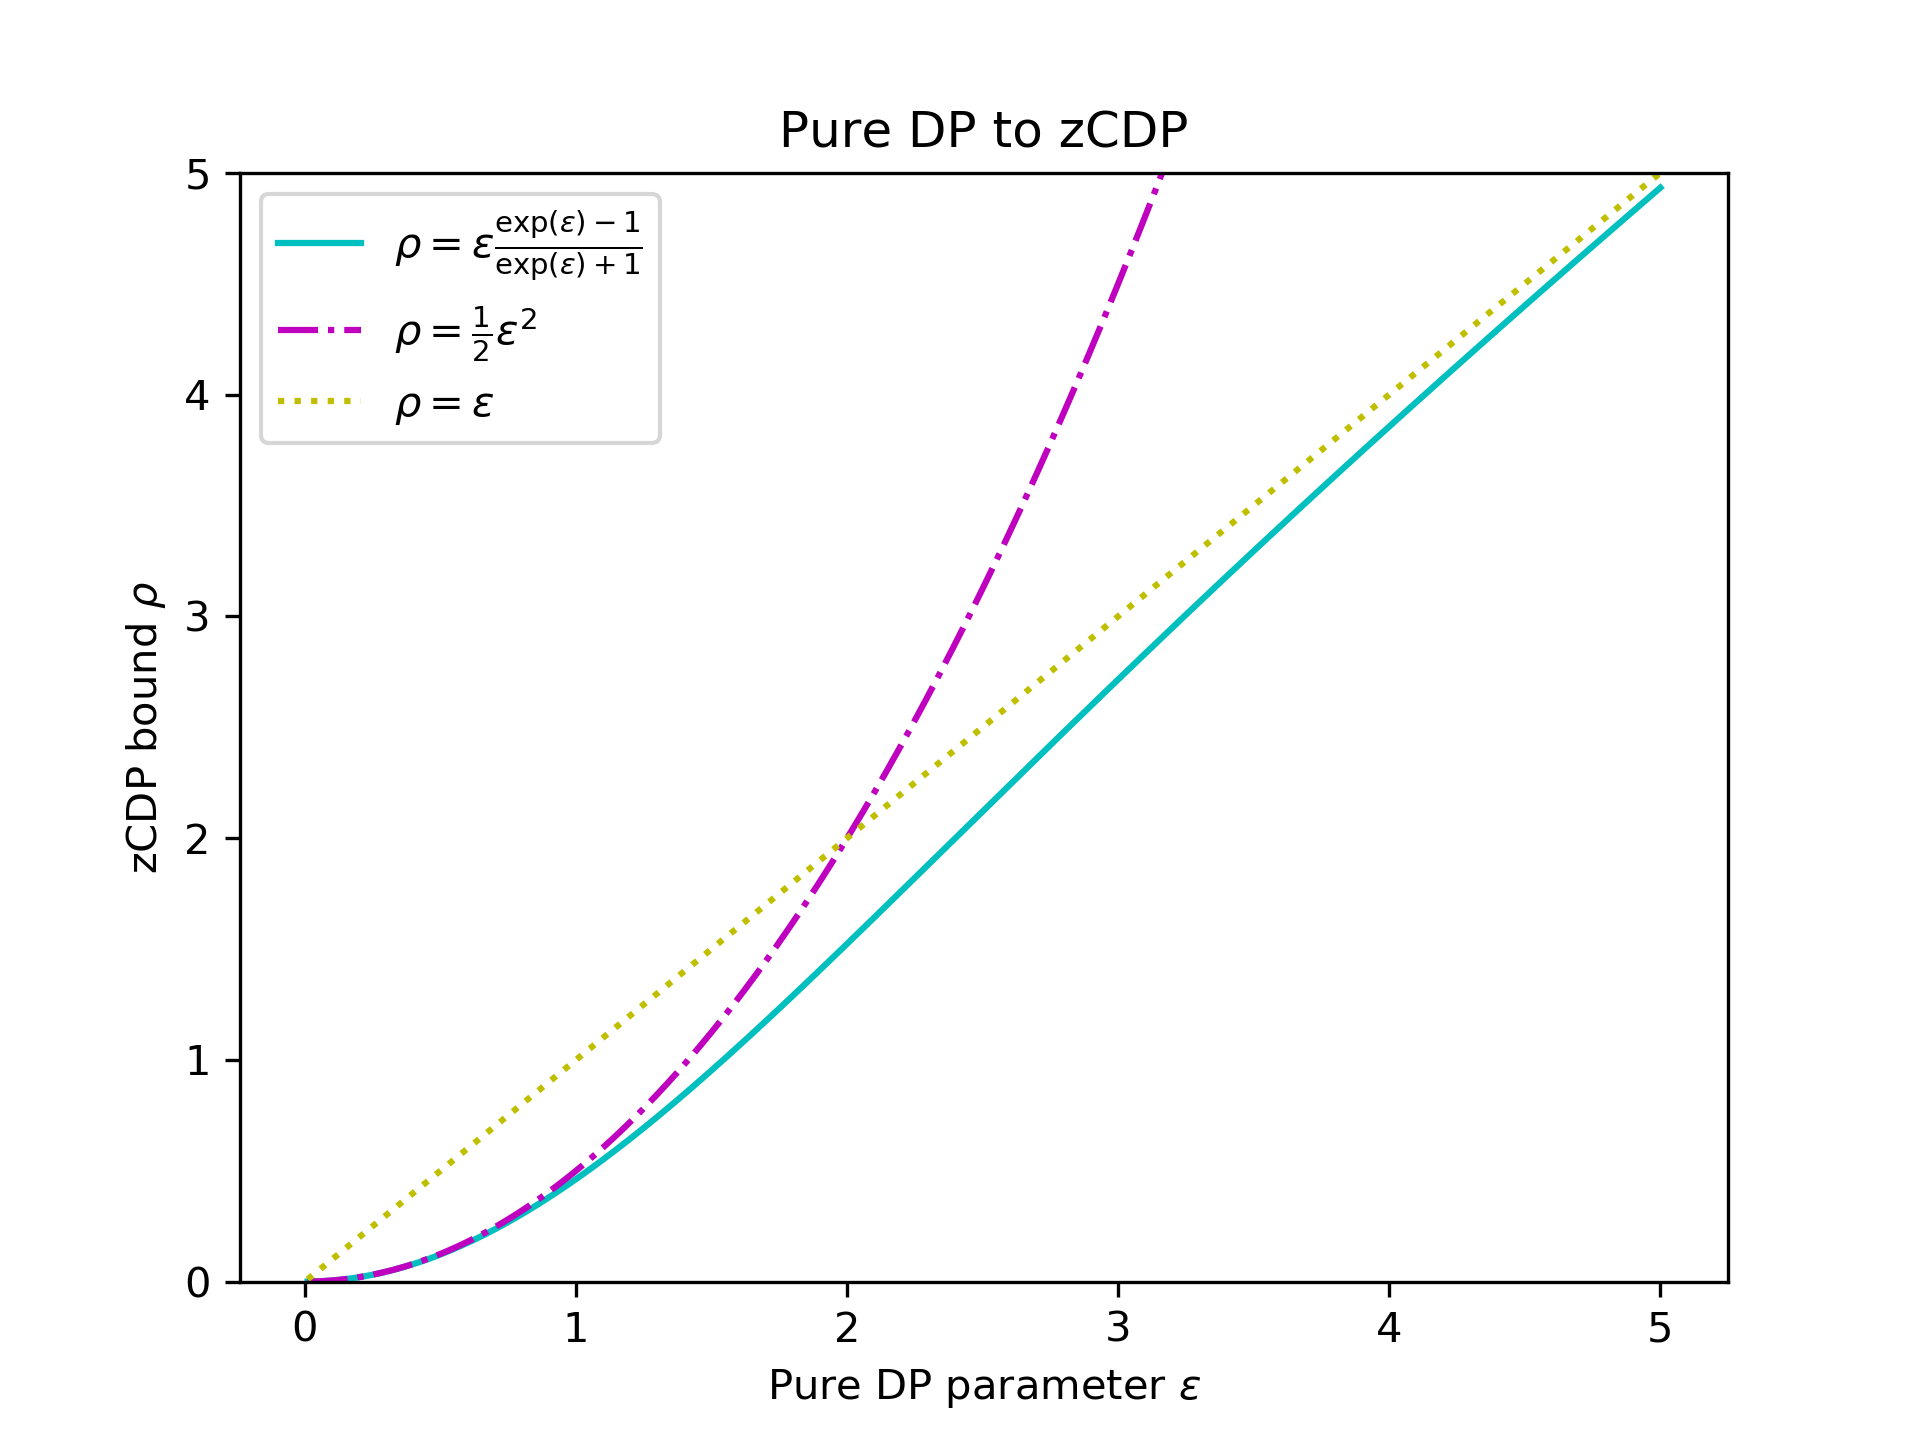
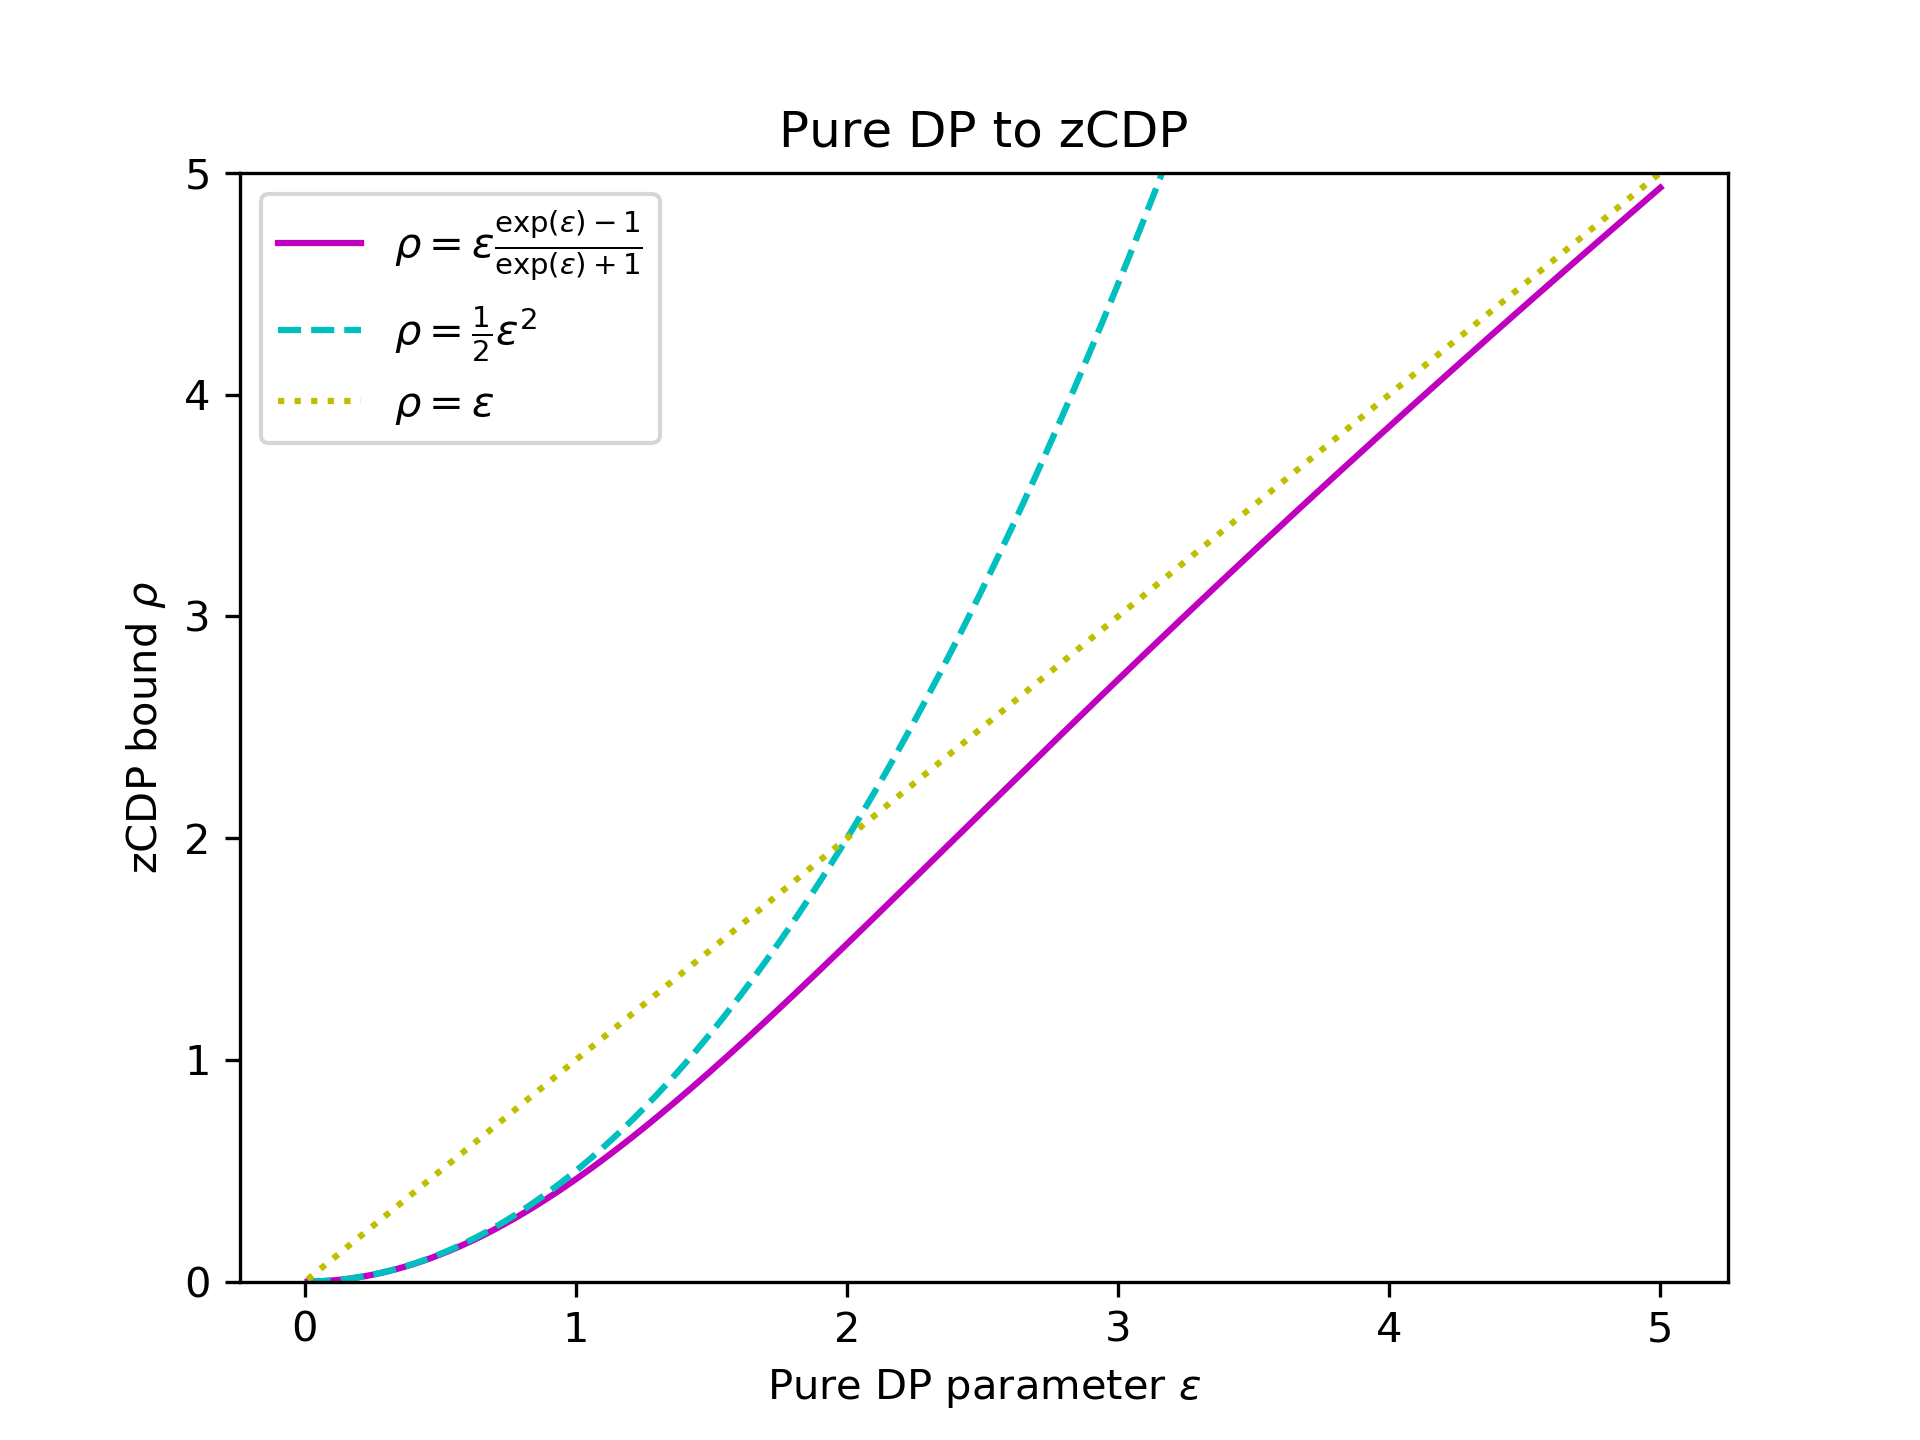
incomplete post

diff --git a/_posts/2024-05-27-pdp-to-zcdp.md b/_posts/2024-05-27-pdp-to-zcdp.md
@@ -1,6 +1,6 @@
 ---
 layout: post
-title: "Sharp RDP & zCDP from Pure DP"
+title: "Tight RDP & zCDP Bounds from Pure DP"
 comments: true
 authors:
   - thomassteinke
@@ -75,6 +75,7 @@ The equivalence of the two expressions in the theorem statement is a matter of a
 ## Converting Pure DP to zCDP
 
 The RDP bound in Theorem 4 is tight, but a bit unwieldy. Now we look at zCDP bounds, which are looser but simpler.
+The trivial bound gives that \\\(\\varepsilon\\\)-DP implies \\\(\\varepsilon\\\)-zCDP.
 In [a previous post](/exponential-mechanism-bounded-range) we proved that \\\(\\varepsilon\\\)-DP implies \\\(\\frac12\\varepsilon^2\\\)-zCDP.[^4]
 Now we prove a tight bound:
 
@@ -104,12 +105,20 @@ Tightness is witnessed by randomized response and by taking the limit \\\(\\alph
 
 ## Numerical Comparison
 
-Let's see what these improved bounds look like
+Let's see what these improved bounds look like:
 
-<img src="/images/pdp2zcdp-purerenyi.png" width="600" alt="Plot showing the bound from Theorem 4 compared to the trivial bound and the bound implied by Theorem 5 for epsilon=0.5,1,2." style="margin:auto;display: block;" />
+<img src="/images/pdp2zcdp-purerenyi.png" width="700" alt="Plot showing the bound from Theorem 4 compared to the trivial bound and the bound implied by Theorem 5 for epsilon=0.5,1,2." style="margin:auto;display: block;" />
+This first plot compares the tight Renyi DP bound from Theorem 4 \(solid line\) with the trivial bound \(\\\(\\widehat\\varepsilon\(\\alpha\)\\le\\varepsilon\\\), dotted line\) and the bound implied by zCDP \(dashed line\) via Theorem 5. We consider \\\(\\varepsilon=\\frac12\\\) \(<font color="red">red</font> line, bottom\), \\\(\\varepsilon=1\\\) \(<font color="green">green</font> line, middle\), and \\\(\\varepsilon=2\\\) \(<font color="blue">blue</font> line, top\).
 
-<img src="/images/pdp2zcdp-purezcdp.png" width="600" alt="Plot showing the bound from Theorem 5 compared to rho=epsilon^2/2 and rho=epsilon." style="margin:auto;display: block;" />
+We see that the trivial bound is tight as the Renyi order \\\(\\alpha\\\) becomes large, while the zCDP bound is tight for small Renyi orders \(i.e., \\\(\\alpha\\to1\\\)\).
+The smaller \\\(\\varepsilon\\\) is, the later this transition occurs.
 
+
+<img src="/images/pdp2zcdp-purezcdp.png" width="700" alt="Plot showing the bound from Theorem 5 compared to rho=epsilon^2/2 and rho=epsilon." style="margin:auto;display: block;" />
+
+This second plot compares the tight zCDP bound from Theorem 5 \(solid <font color="magenta">magenta</font> line\) against the trivial bound \(dotted <font color="yellow">yellow</font> line\) and the quadratic bound \(dashed <font color="cyan">cyan</font> line\).
+
+We see that, for small values of \\\(\\varepsilon\\\), the quadrtic bound is tight, while for large values of \\\(\\varepsilon\\\), the trivial bound is tight.
 
 ---
 
